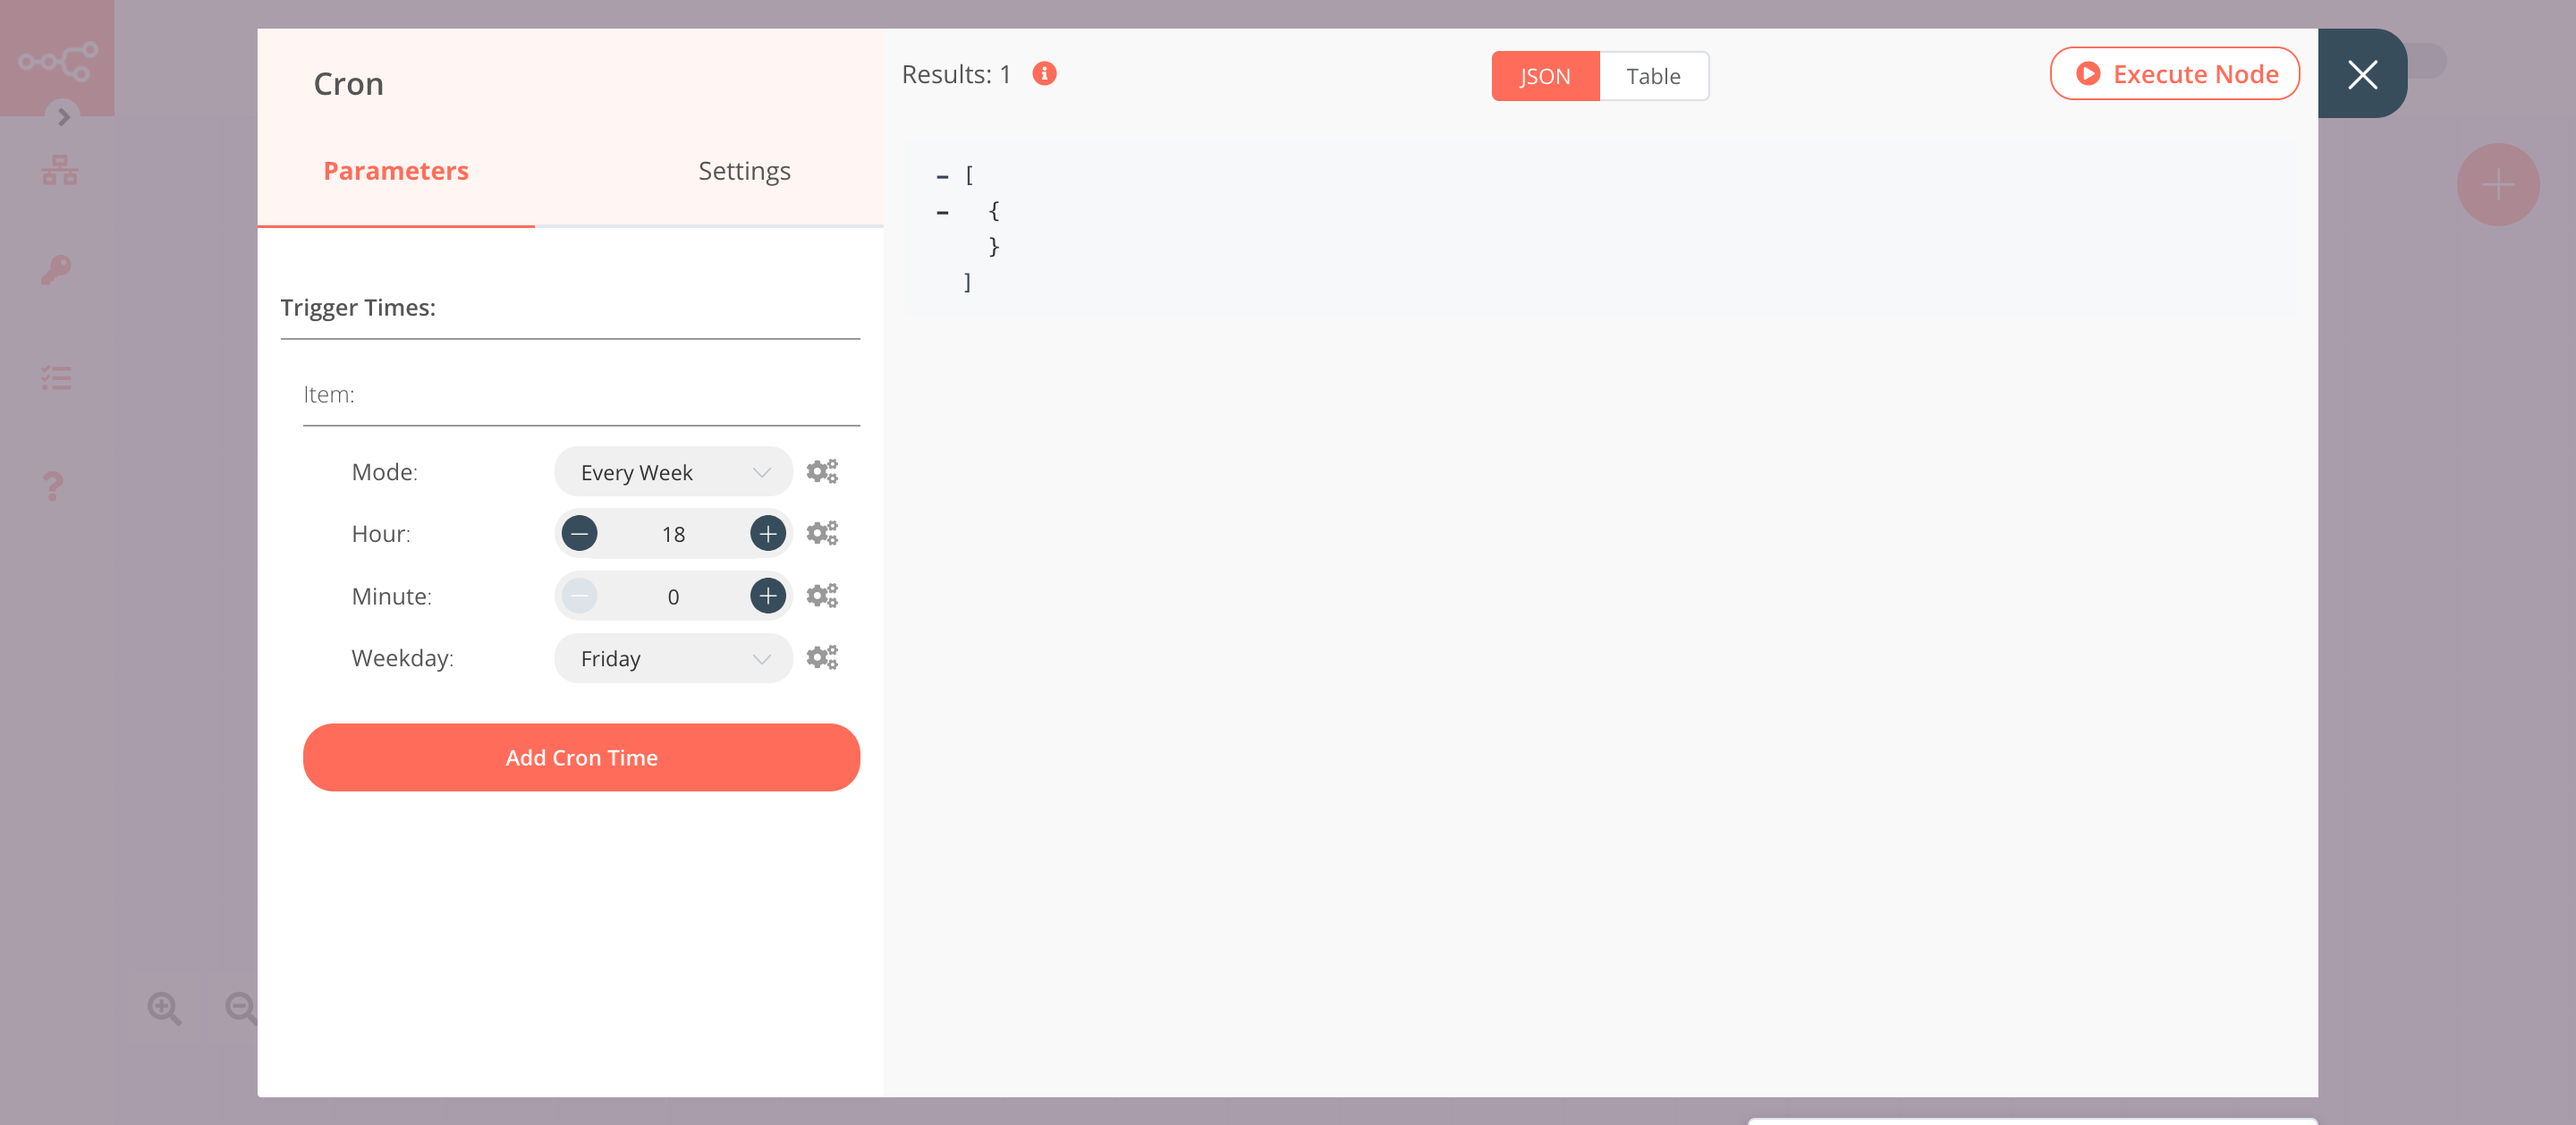
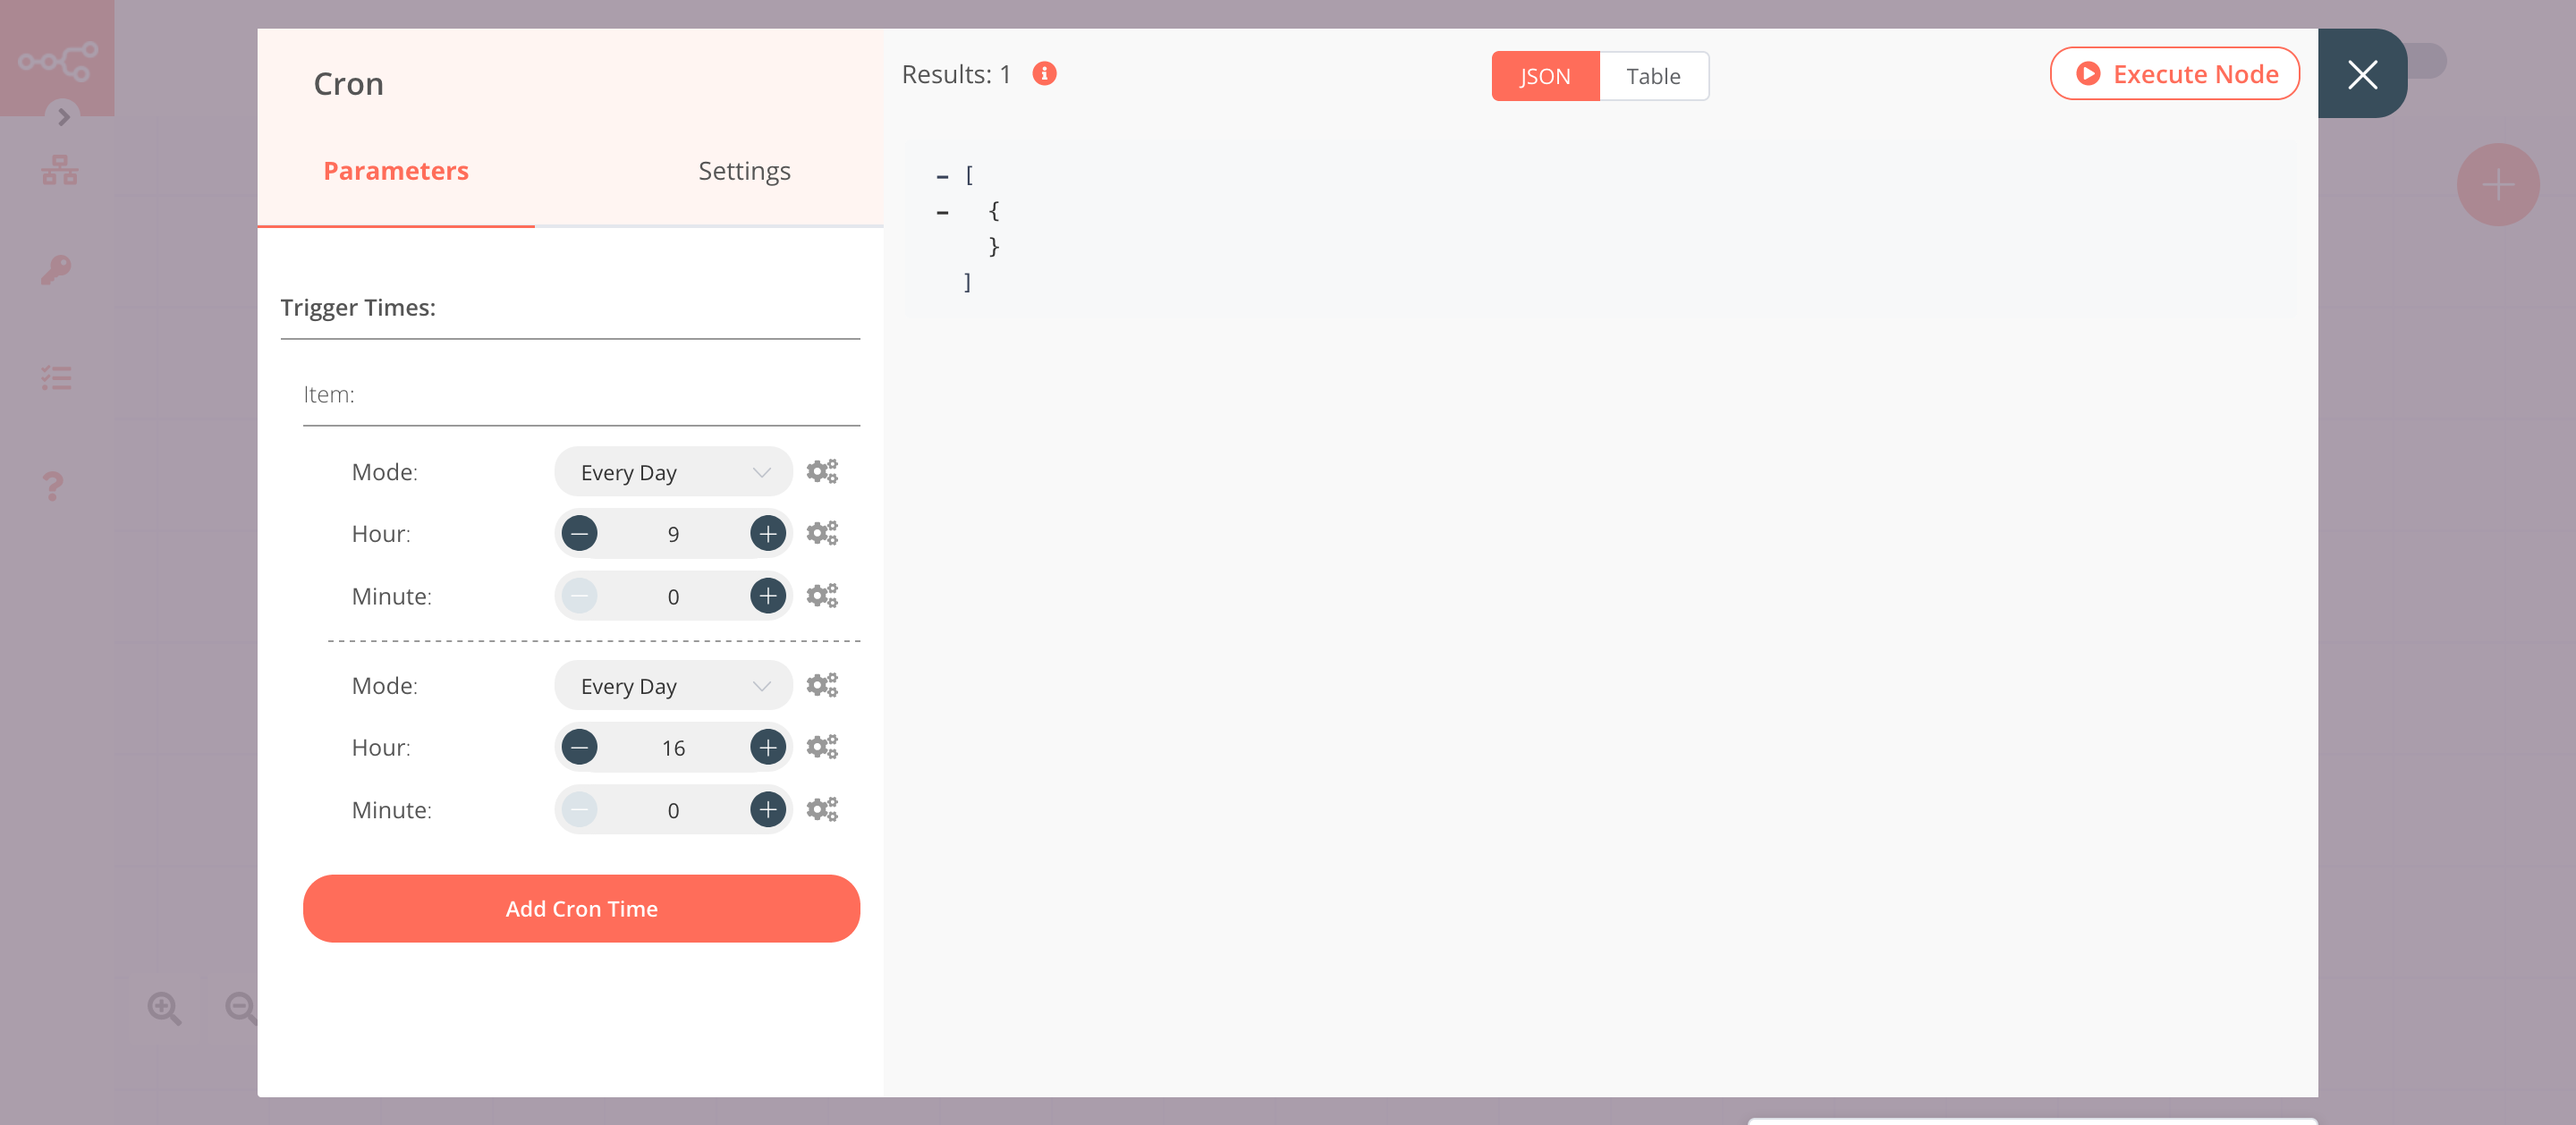
⚡ Update Cron node

Changed region(s): [[0.0938, 0.558, 0.3438, 0.744], [0.0938, 0.775, 0.3438, 0.837], [0.25, 0.403, 0.2812, 0.434]]

diff --git a/docs/nodes/nodes-library/core-nodes/ExecuteCommand/README.md b/docs/nodes/nodes-library/core-nodes/ExecuteCommand/README.md
@@ -21,7 +21,7 @@ The Execute Command node has two properties:
 
 ## Example Usage
 
-This workflow allows you to execute a command that gives the hard disk memory used on the host machine using the Execute Command node. If the percentage of memory used exceeds 80%, the workflow will send an SMS using the Twilio node. You can also find the [workflow](https://n8n.io/workflows/716) on the website. This example usage workflow would use the following nodes.
+This workflow allows you to execute a command that returns the percentage of the memory used by the hard disk of the host machine using the Execute Command node. If the percentage of memory used exceeds 80%, the workflow will send an SMS using the Twilio node. You can also find the [workflow](https://n8n.io/workflows/716) on the website. This example usage workflow would use the following nodes.
 - [Cron](../../core-nodes/Cron/README.md)
 - [Execute Command]()
 - [IF](../../core-nodes/If/README.md)
@@ -35,13 +35,15 @@ The final workflow should look like the following image.
 
 ### 1. Cron node
 
-The Cron node will trigger the workflow every week on Friday at 1800 hours.
+The Cron node will trigger the workflow twice a day.
 
 1. Click on ***Add Cron Time***.
-2. Select 'Every Week' from the ***Mode*** dropdown list.
-3. Set the hours in the ***Hour*** field.
-4. Select 'Friday' from the ***Weekday*** dropdown list.
-5. Click on ***Execute Node*** to run the node.
+2. Select 'Every Day' from the ***Mode*** dropdown list.
+3. Set hours to 9 in the ***Hour*** field.
+4. Click on ***Add Cron Time***.
+5. Select 'Every Day' from the ***Mode*** dropdown list.
+6. Set hours to 16 in the ***Hour*** field.
+7. Click on ***Execute Node*** to run the node.
 
 ![Using the Cron node to trigger the workflow](./Cron_node.png)
 
@@ -108,7 +110,7 @@ You can combine multiple commands using `&&`. For example, you can combine the c
 cd bin && ls
 ```
 
-To run multiple commands, you can also write the commands on a new line. For example, you can write the list(ls) command on a new line after the change directory(cd) command.
+To run multiple commands, you can also write the commands on separate lines. For example, you can write the list(ls) command on a new line after the change directory(cd) command.
 ```bash
 cd bin
 ls
@@ -118,7 +120,7 @@ ls
 
 You should use the [HTTP Request](../../core-nodes/HTTPRequest/README.md) node to make a CURL request.
 
-To run the curl command in the Execute Command node, you will have to build a Docker image based on the existing n8n image. The default n8n Docker image uses Alpine Linux. You will have to install the curl package. 
+If you want to run the curl command in the Execute Command node, you will have to build a Docker image based on the existing n8n image. The default n8n Docker image uses Alpine Linux. You will have to install the curl package. 
 1. Create a file named Dockerfile.
 2. Add the below code snippet to the Dockerfile.
 ```
